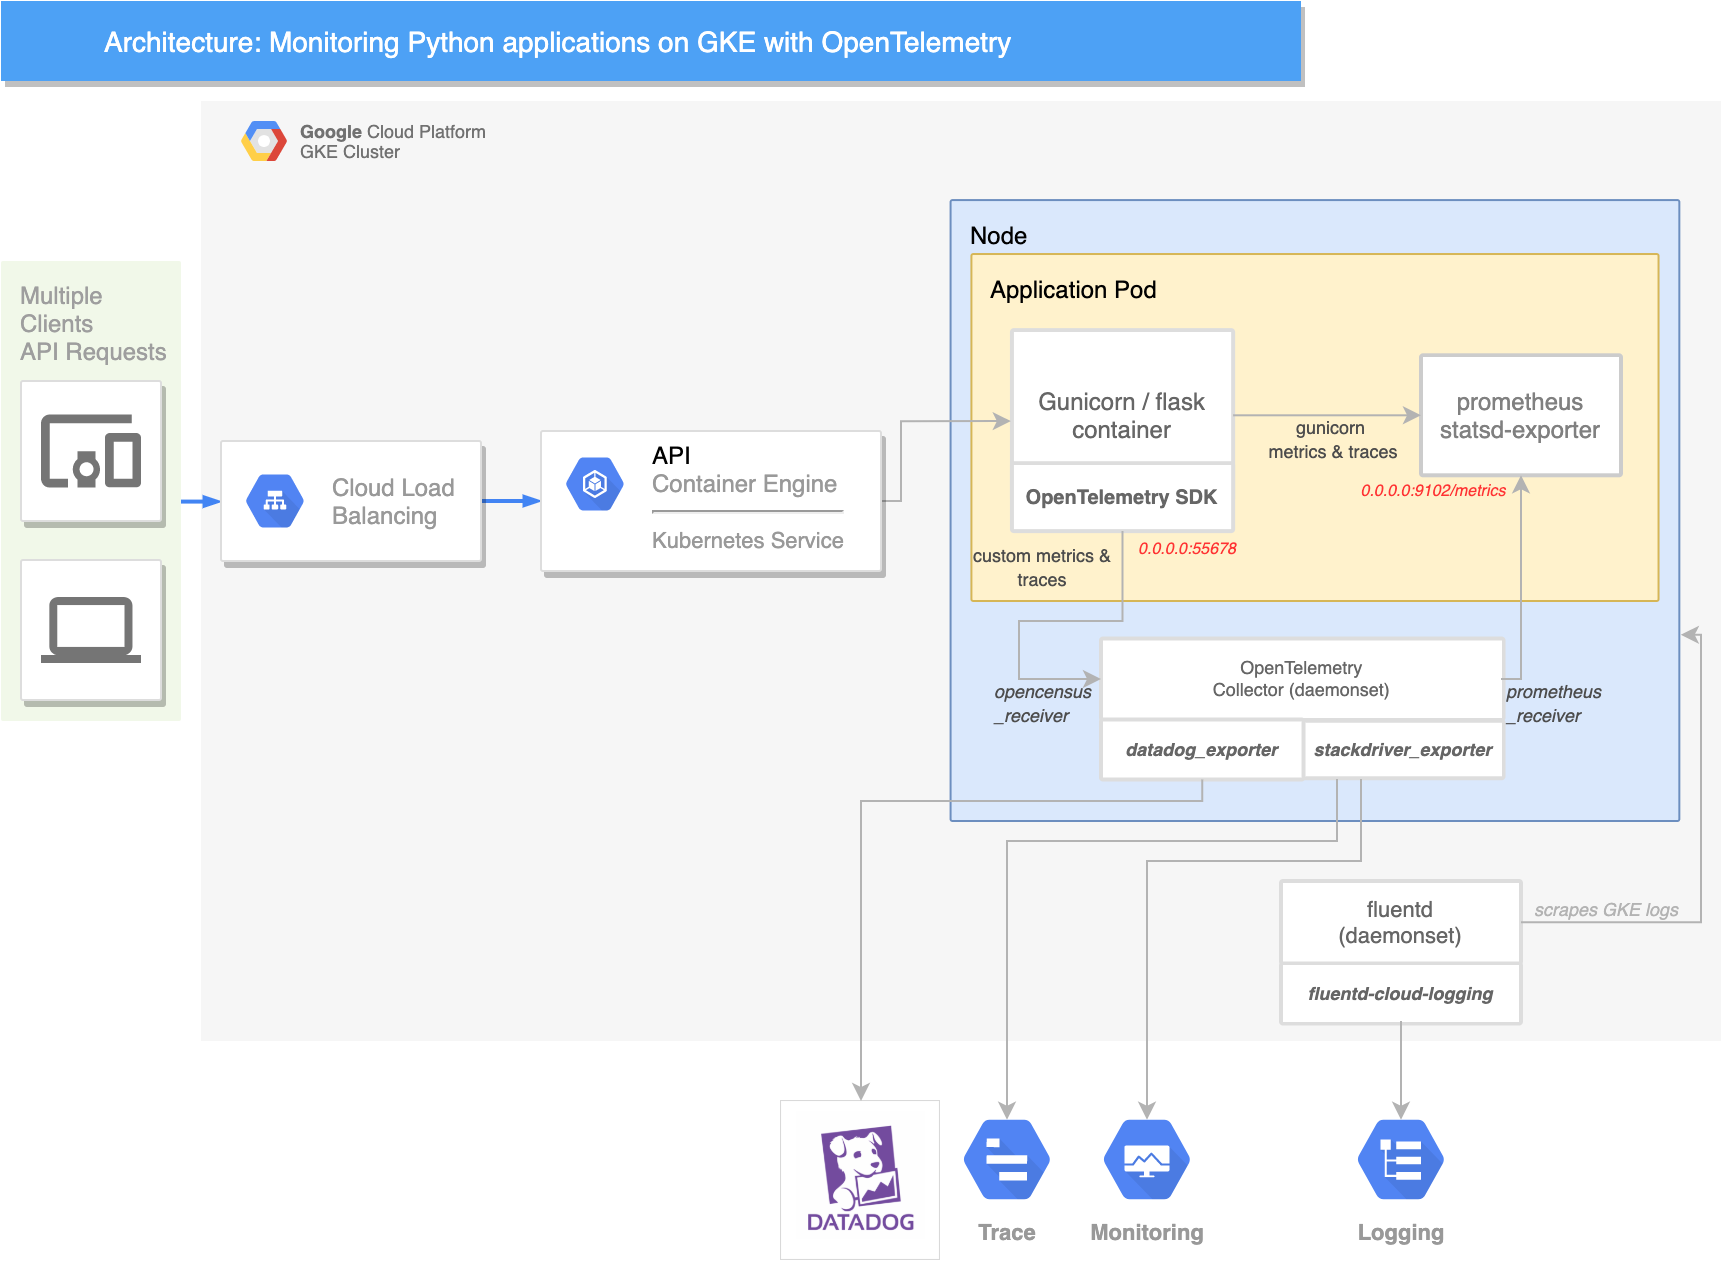
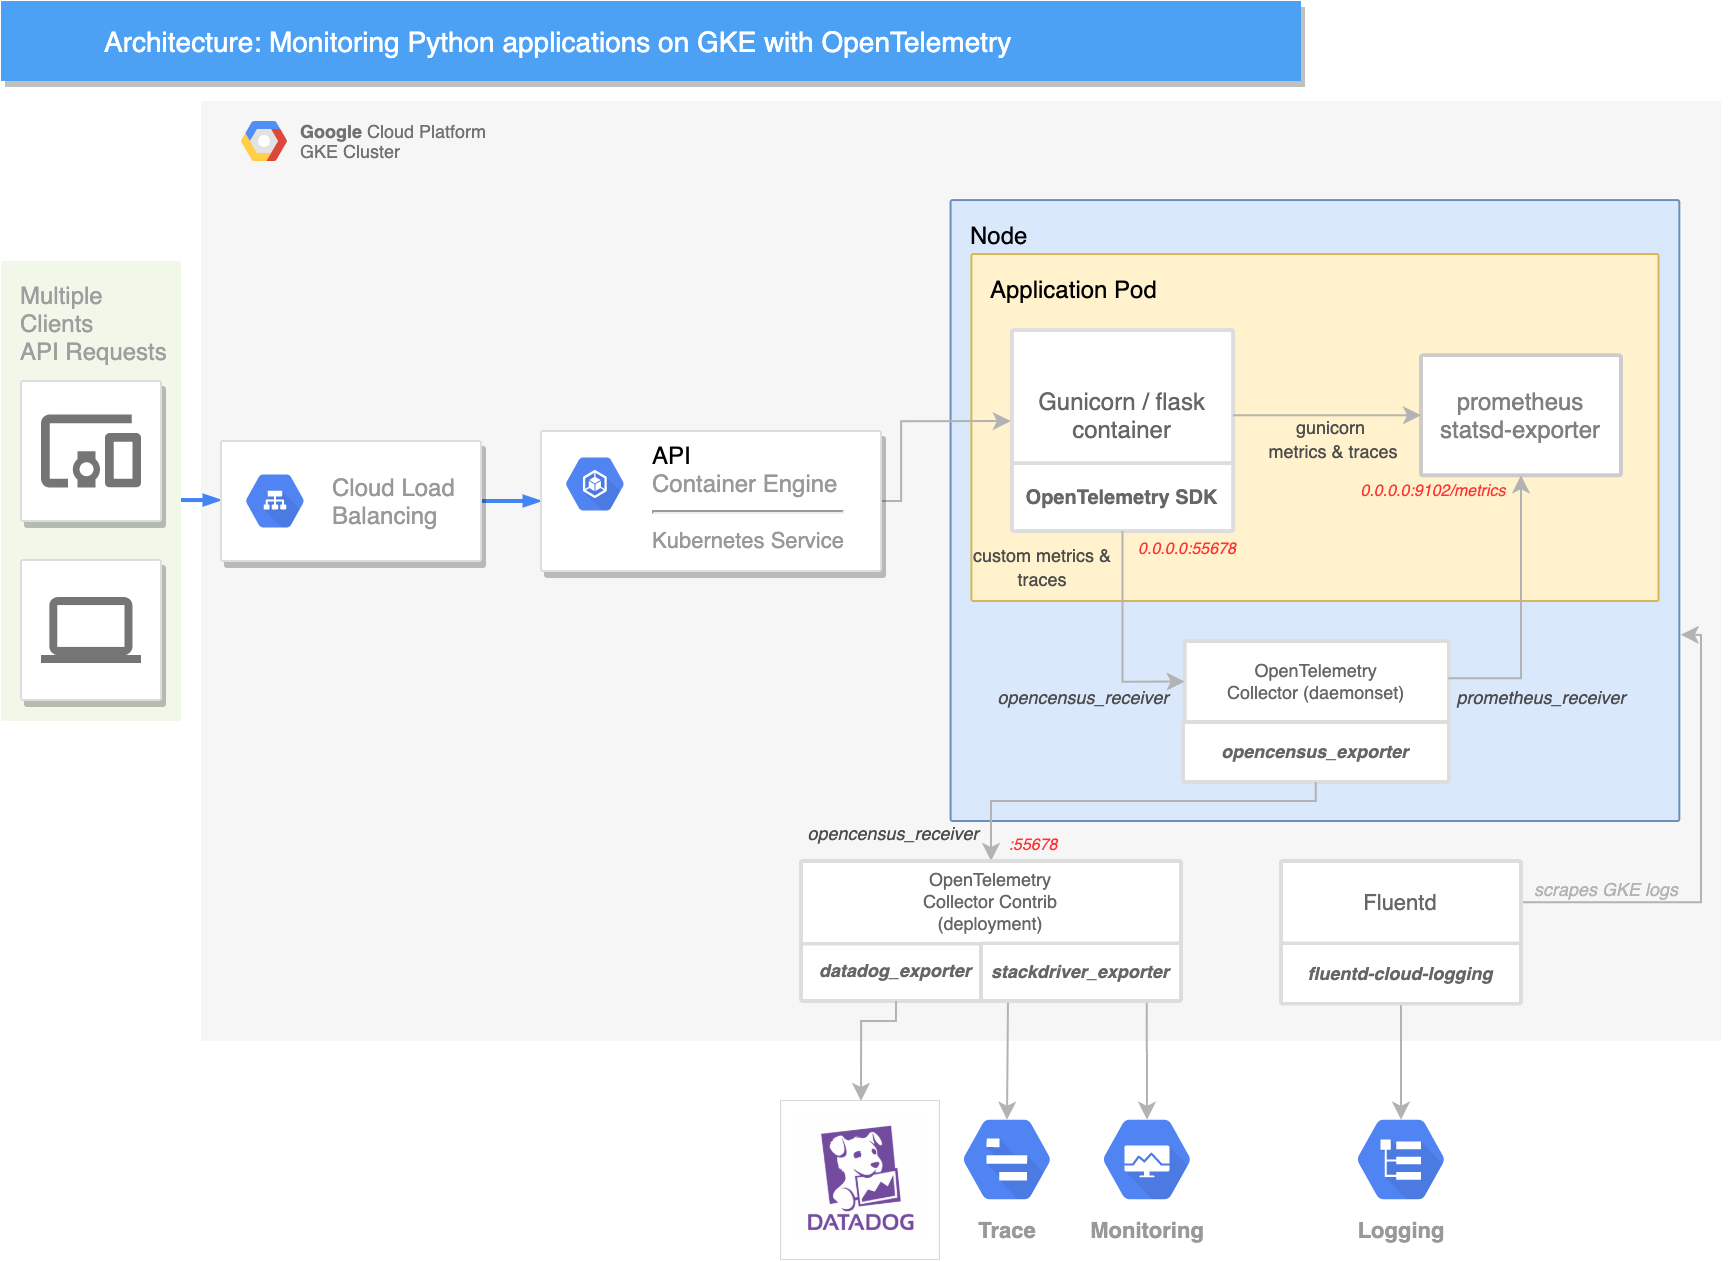
Update arch diagram, add instrumentation subtitle to README

diff --git a/README.md b/README.md
@@ -1,4 +1,5 @@
-# Gunicorn Flask application with OpenTelemetry instrumentation
+# Gunicorn (Flask) application
+#### Instrumentation: OT SDK + OT Agent (Daemonset) + OT Agent (Deployment) + Cloud Monitoring
 
 This repository is a POC application to demonstrate OpenTelemetry instrumentation for a `gunicorn` application running on Google Kubernetes engine.
 
@@ -11,6 +12,10 @@ In this design:
     -   A Prometheus `receiver` to scrape the `statsd-exporter` metrics (drop-in replacement for a full-fledged Prometheus instance).
 
     -   An OpenCensus `receiver` to receive the application custom metrics sent via the SDK.
+
+-   `OpenTelemetry` agent is also deployed as a `deployment` and configured with:
+
+    -   An OpenCensus `receiver` to receive the application custom metrics sent by the `daemonset`.
 
     -   A `Cloud Trace` and `Cloud Monitoring` `exporter` to ship metrics and traces to Cloud Operations.
 
